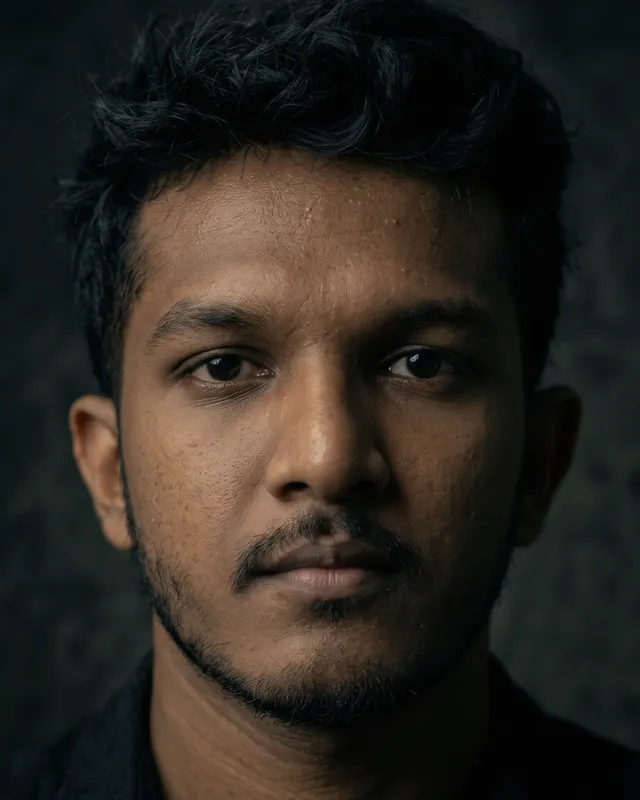
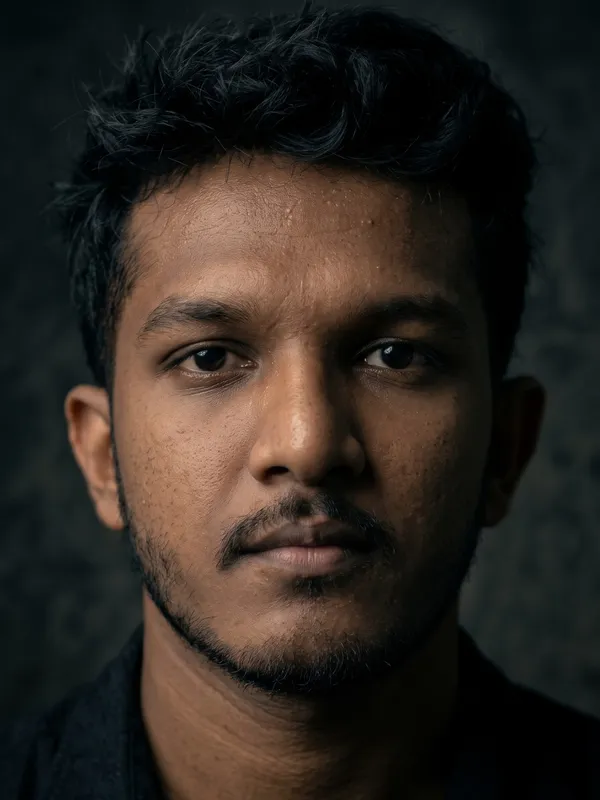
People: original colours, wider crops, black and white at rest with a small lift and colour on hover

diff --git a/src/pages/Home.jsx b/src/pages/Home.jsx
@@ -602,48 +602,71 @@ function Journey() {
 
 // ---------------------------------------------------------------- People
 
-// The founders' portraits sit side by side as one strip, colour-matched by scripts/team-photos.mjs,
-// with each person's name, role and links underneath.
-function FounderPortrait({ person }) {
-  return person.photo ? (
-    <img src={person.photo} alt={`Portrait of ${person.name}`} width={640} height={800} loading="lazy" decoding="async" className="block aspect-[4/5] h-auto w-full object-cover" />
-  ) : (
-    <span className={`flex aspect-[4/5] items-center justify-center border border-gray-300 font-mono text-xs uppercase tracking-widest ${DOTS}`}>
-      <Fill value={null} label="Portrait" />
-    </span>
+// The founders' portraits sit side by side as one strip (cropped to match by scripts/team-photos.mjs),
+// with each person's name, role and links underneath. On screens with a pointer they rest in black
+// and white; pointing at a founder lifts their portrait and details slightly and brings in the colour.
+const LIFT = 'transition-[transform,filter,box-shadow,color] duration-500 ease-[cubic-bezier(0.22,1,0.36,1)]';
+
+function FounderPortrait({ person, active, hold }) {
+  return (
+    <div
+      onPointerEnter={hold}
+      className={`relative ${LIFT} ${active ? 'z-10 motion-safe:scale-[1.04] shadow-[0_24px_48px_-16px_rgba(0,0,0,0.55)]' : 'z-0'}`}
+    >
+      {person.photo ? (
+        <img
+          src={person.photo}
+          alt={`Portrait of ${person.name}`}
+          width={600}
+          height={800}
+          loading="lazy"
+          decoding="async"
+          className={`block aspect-[3/4] h-auto w-full object-cover ${LIFT} ${active ? '' : '[@media(hover:hover)]:grayscale'}`}
+        />
+      ) : (
+        <span className={`flex aspect-[3/4] items-center justify-center border border-gray-300 font-mono text-xs uppercase tracking-widest ${DOTS}`}>
+          <Fill value={null} label="Portrait" />
+        </span>
+      )}
+    </div>
   );
 }
 
-function Founder({ person, index }) {
+function Founder({ person, index, active, hold }) {
   return (
-    <li className="flex flex-col items-center gap-2 text-center" data-reveal>
-      <h3 className="text-2xl font-bold tracking-tight">
-        <Fill value={person.name} label={`Founder ${index + 1}`} />
-      </h3>
-      <p className={LABEL}>
-        <Fill value={person.role} label="Role" />
-      </p>
-      <p className="max-w-xs text-sm leading-relaxed text-gray-600">
-        <Fill value={person.bio} label="A line on their background" />
-      </p>
-      <p className="mt-auto flex flex-wrap justify-center gap-x-6 gap-y-2 pt-2">
-        {person.linkedin ? (
-          <ExternalLink className={TEXT_LINK} href={person.linkedin}>
-            LinkedIn
-          </ExternalLink>
-        ) : null}
-        {person.github ? (
-          <ExternalLink className={TEXT_LINK} href={person.github}>
-            GitHub
-          </ExternalLink>
-        ) : null}
-        {person.linkedin || person.github ? null : <Fill value={null} label="LinkedIn or GitHub" />}
-      </p>
+    <li data-reveal onPointerEnter={hold} onFocus={hold}>
+      <div className={`flex h-full flex-col items-center gap-2 text-center ${LIFT} ${active ? 'motion-safe:scale-[1.03]' : ''}`}>
+        <h3 className="text-2xl font-bold tracking-tight">
+          <Fill value={person.name} label={`Founder ${index + 1}`} />
+        </h3>
+        <p className={LABEL}>
+          <Fill value={person.role} label="Role" />
+        </p>
+        <p className={`max-w-xs text-sm leading-relaxed ${LIFT} ${active ? 'text-gray-900' : 'text-gray-600'}`}>
+          <Fill value={person.bio} label="A line on their background" />
+        </p>
+        <p className="mt-auto flex flex-wrap justify-center gap-x-6 gap-y-2 pt-2">
+          {person.linkedin ? (
+            <ExternalLink className={TEXT_LINK} href={person.linkedin}>
+              LinkedIn
+            </ExternalLink>
+          ) : null}
+          {person.github ? (
+            <ExternalLink className={TEXT_LINK} href={person.github}>
+              GitHub
+            </ExternalLink>
+          ) : null}
+          {person.linkedin || person.github ? null : <Fill value={null} label="LinkedIn or GitHub" />}
+        </p>
+      </div>
     </li>
   );
 }
 
 function People() {
+  // The founder being pointed at, or focused by keyboard; null when the pointer leaves the group.
+  const [active, setActive] = useState(null);
+
   return (
     <section id="people" aria-labelledby="people-title" className={FRAME}>
       <div className={`${PAD} border-b border-gray-300`}>
@@ -651,15 +674,21 @@ function People() {
           Everyone who builds our products works for {COMPANY.name}. Right now that is the three of us.
         </Heading>
       </div>
-      <div className="mx-auto max-w-5xl px-6 py-12 md:px-16 md:py-20">
-        <div className="grid grid-cols-3 overflow-hidden bg-black" data-reveal>
+      <div
+        className="mx-auto max-w-5xl px-6 py-12 md:px-16 md:py-20"
+        onPointerLeave={() => setActive(null)}
+        onBlur={(event) => {
+          if (!event.currentTarget.contains(event.relatedTarget)) setActive(null);
+        }}
+      >
+        <div className="grid grid-cols-3 bg-black" data-reveal>
           {FOUNDERS.map((person, index) => (
-            <FounderPortrait key={person.name ?? index} person={person} />
+            <FounderPortrait key={person.name ?? index} person={person} active={active === index} hold={() => setActive(index)} />
           ))}
         </div>
         <ul className="mt-8 grid grid-cols-1 gap-10 sm:grid-cols-3 sm:gap-6 md:mt-10">
           {FOUNDERS.map((person, index) => (
-            <Founder key={person.name ?? index} person={person} index={index} />
+            <Founder key={person.name ?? index} person={person} index={index} active={active === index} hold={() => setActive(index)} />
           ))}
         </ul>
       </div>
